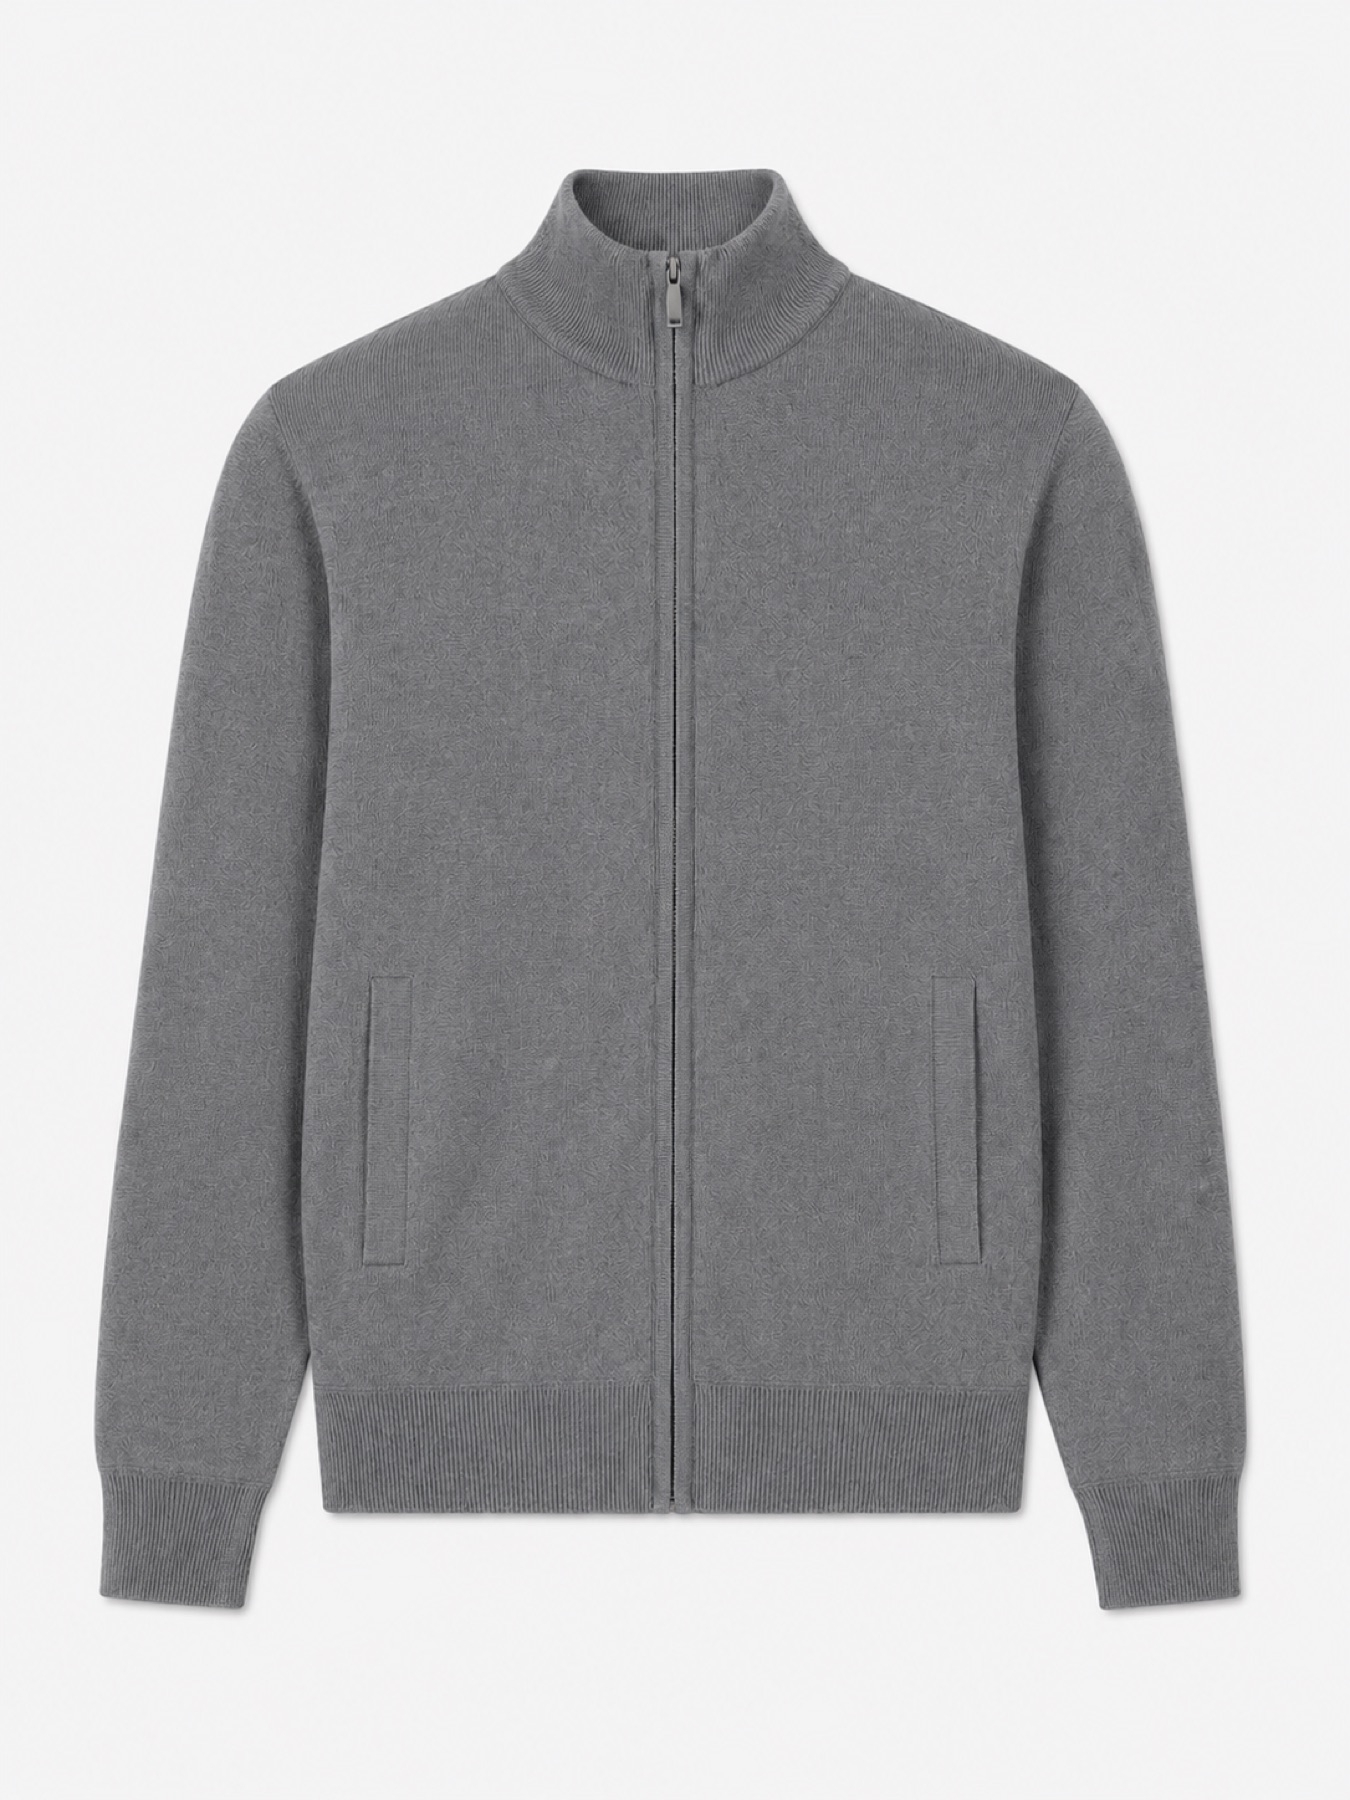
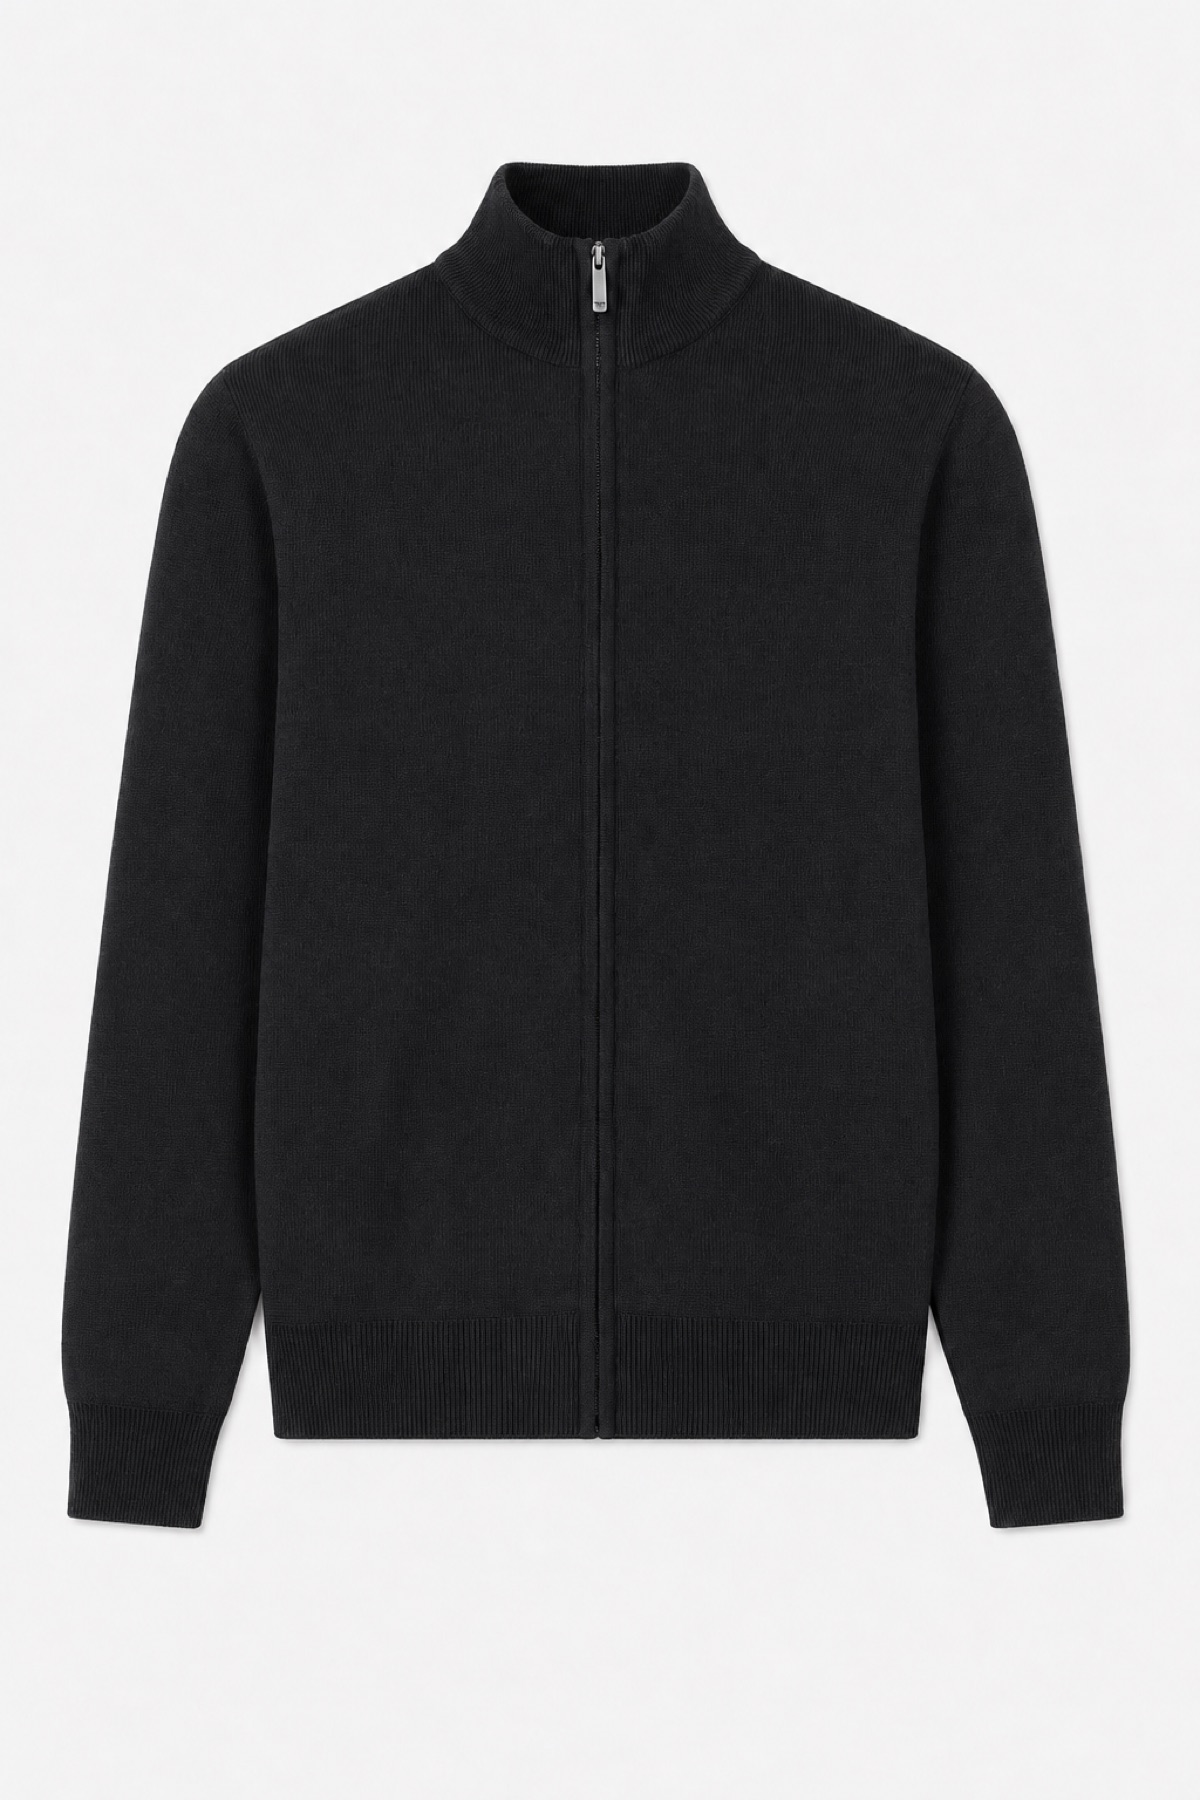
Actualiza fotos de campera sweater sin bolsillo

diff --git a/script.js b/script.js
@@ -1399,7 +1399,7 @@ Object.entries(winterImageAdditionsByProductId).forEach(([productId, photoNumber
   ])].sort((a, b) => a - b);
 });
 
-const IMAGE_ASSET_VERSION = "20260827-02";
+const IMAGE_ASSET_VERSION = "20260827-03";
 
 const PRODUCTION_2027_IMAGE_SOURCE_BY_PRODUCT_ID = {
   118: 48,  // Merano
@@ -1636,6 +1636,7 @@ const colorImageByProductId = {
   201: { "Negro": 1, "Gris": 2, "Azul Marino": 3, "Beige": 4 },
   202: { "Azul Marino": 1, "Negro": 2, "Gris": 3, "Beige": 4 },
   205: { "Beige": 1, "Negro": 2, "Azul Marino": 3, "Gris": 4 },
+  206: { "Negro": 1, "Azul Marino": 2, "Gris": 3, "Beige": 4 },
   208: { "Negro": 1, "Azul Marino": 2, "Gris": 3, "Beige": 4 },
   209: { "Chocolate": 5, "Negro": 6 },
   210: { "Melange": 1, "Negro": 2, "Beige": 3 }

diff --git a/index.html b/index.html
@@ -232,6 +232,6 @@
     <a href="#catalogo">Volver al catálogo</a>
   </footer>
 
-  <script src="script.js?v=20260827-02"></script>
+  <script src="script.js?v=20260827-03"></script>
 </body>
 </html>
